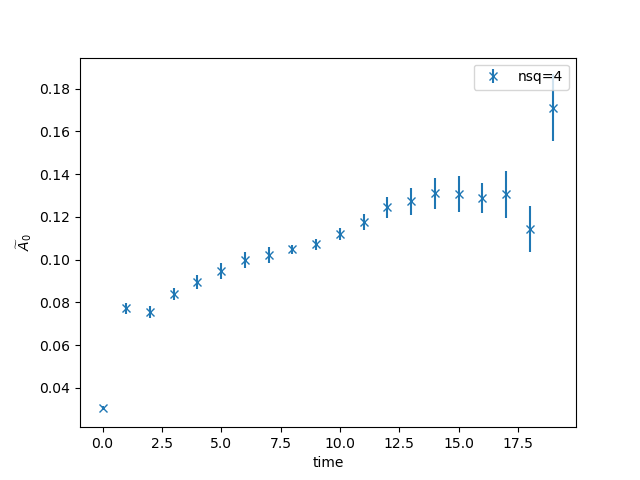
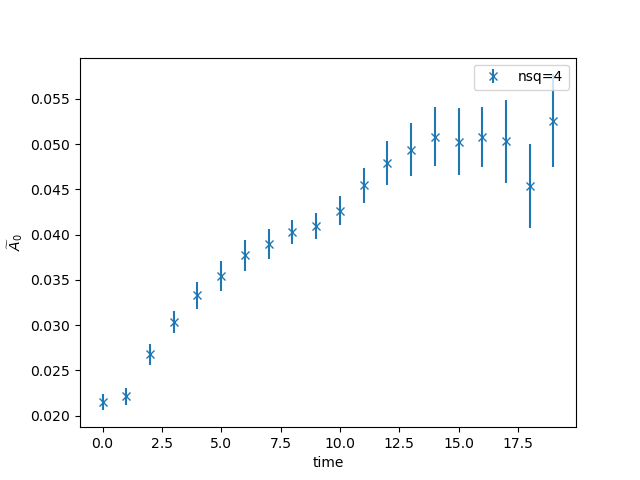
Added nsq4 C1

diff --git a/C1/A0-Av-improved.py b/C1/A0-Av-improved.py
@@ -53,7 +53,7 @@ def sum_with_exceptions_jack(lst,j,i):
             total += jack(num[j],i)  # Add other elements
     return total/len(lst)
 #########decide here which nsq
-nsq=3
+nsq=4
 ##########
 
 
